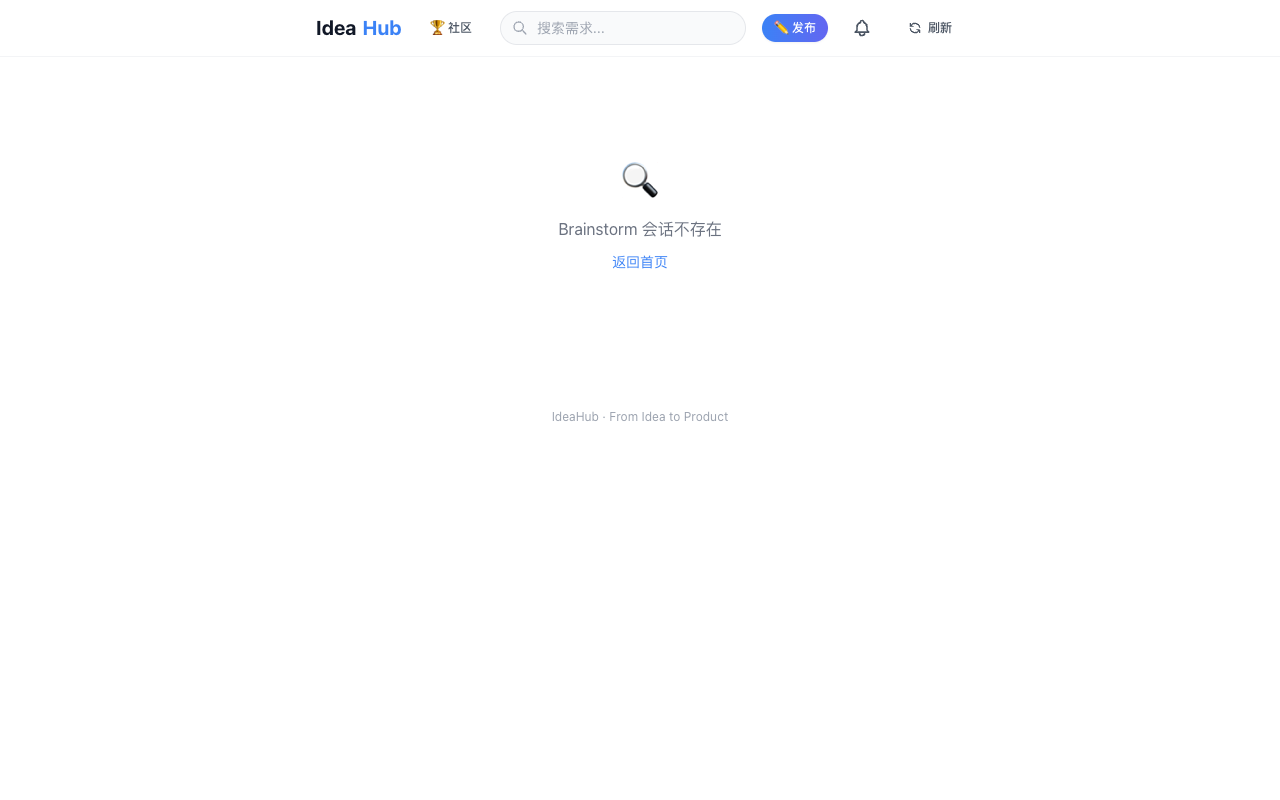
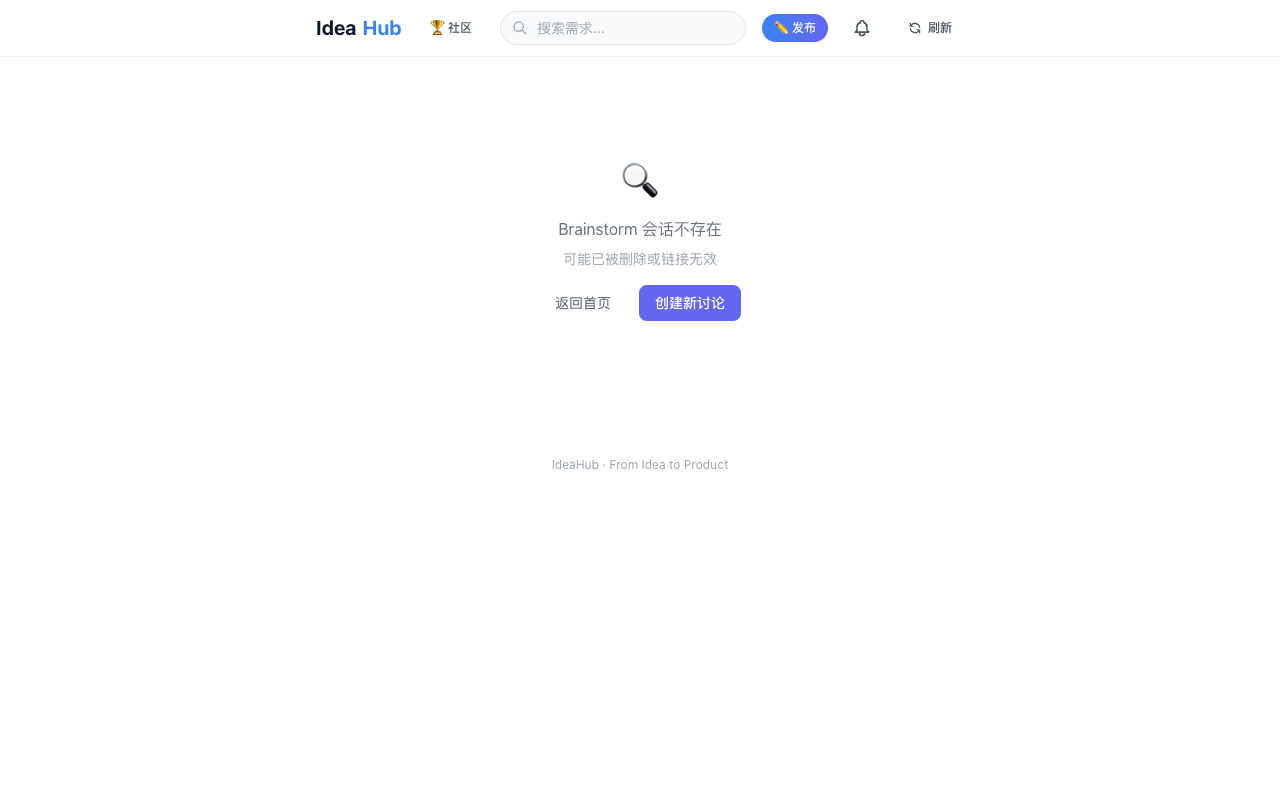
fix: safe platformMeta access in IdeaCard

diff --git a/components/IdeaCard.tsx b/components/IdeaCard.tsx
@@ -24,7 +24,7 @@ interface IdeaCardProps {
 }
 
 export default function IdeaCard({ idea }: IdeaCardProps) {
-  const meta = platformMeta[idea.platform]
+  const meta = platformMeta[idea.platform] || platformMeta.other
   const [showAnalysis, setShowAnalysis] = useState(false)
   const [productCount, setProductCount] = useState(0)
   const [firstProduct, setFirstProduct] = useState<Product | null>(null)